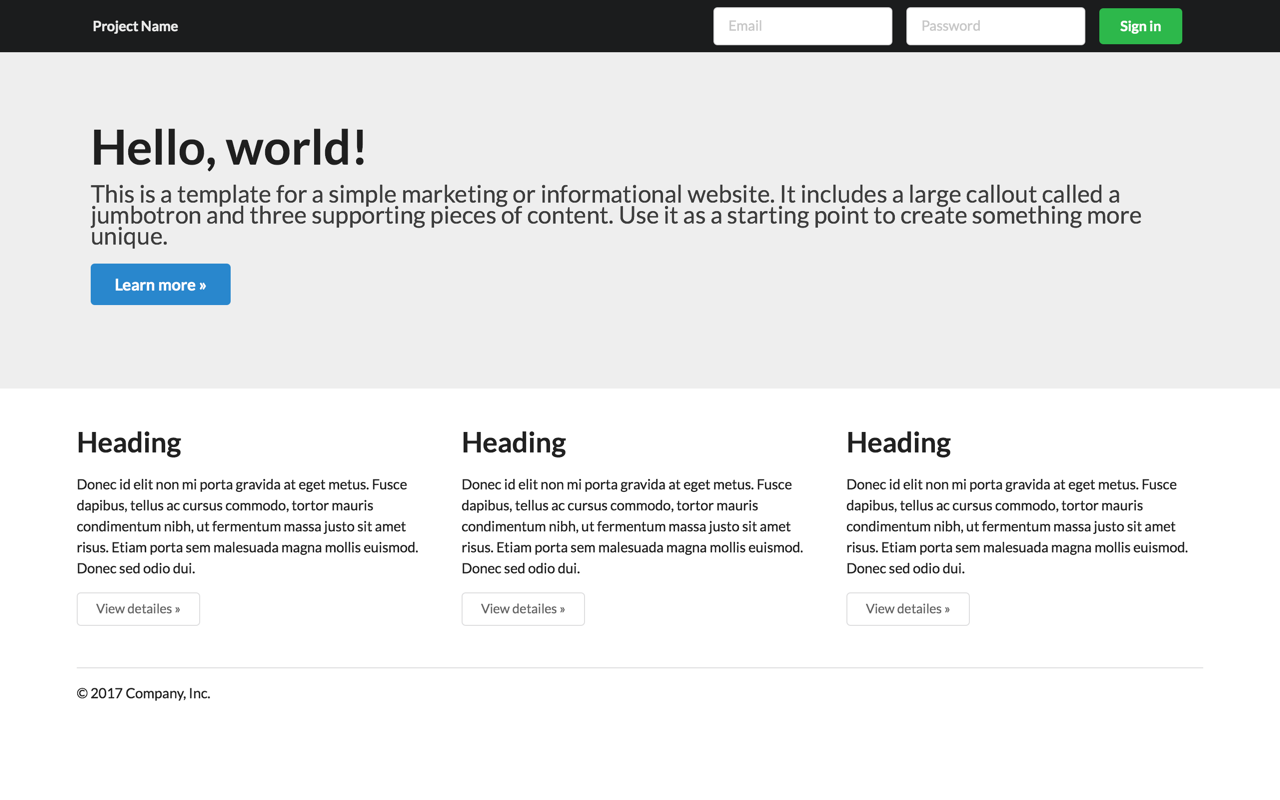
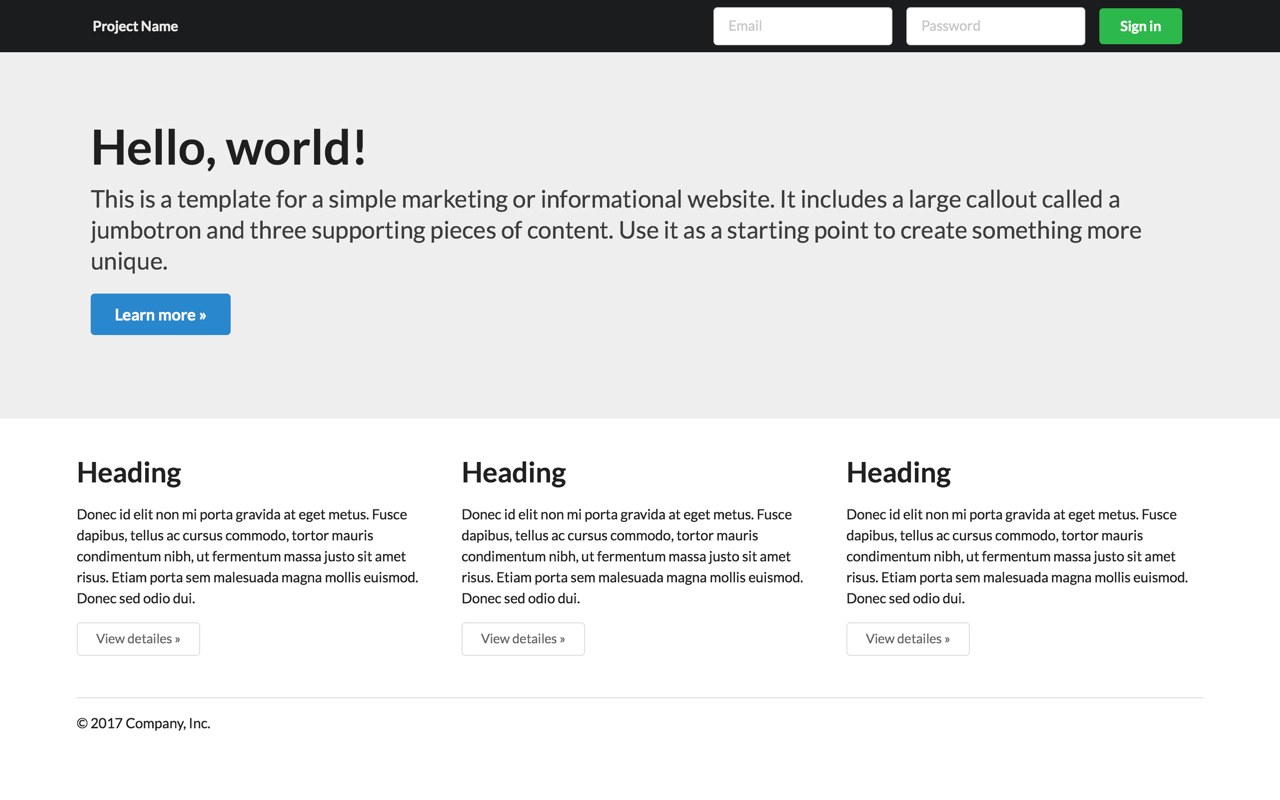
Auto deployed by travis-ci.
Projects used for this deployment:
- https://github.com/semantic-ui-forest/semantic-ui-forest/commit/5394cb91abb0e8e25a9fb02e73b3e1b0094e53ab

diff --git a/static/kitchen-sink/stylesheets/kitchen-sink.css b/static/kitchen-sink/stylesheets/kitchen-sink.css
@@ -206,3 +206,12 @@ h4 + .dimmer.demo {
 .example > i.code.icon:before {
   content: '\f121';
 }
+
+/* Tab component's last bottom attached segment's margin-bottom */
+.ui.segment[class*="bottom attached"]:last-child {
+  margin-bottom: 1em;
+}
+
+.ui.tab.segment:last-child {
+  margin-bottom: 1em;
+}

diff --git a/templates/bootstrap/jumbotron/index.html b/templates/bootstrap/jumbotron/index.html
@@ -117,6 +117,9 @@
         margin-top: 2.5em;
         margin-bottom: 2.5em;
       }
+      .ui.grid.message .row p {
+        line-height: 1.3;
+      }
     </style>
   </body>
 </html>
